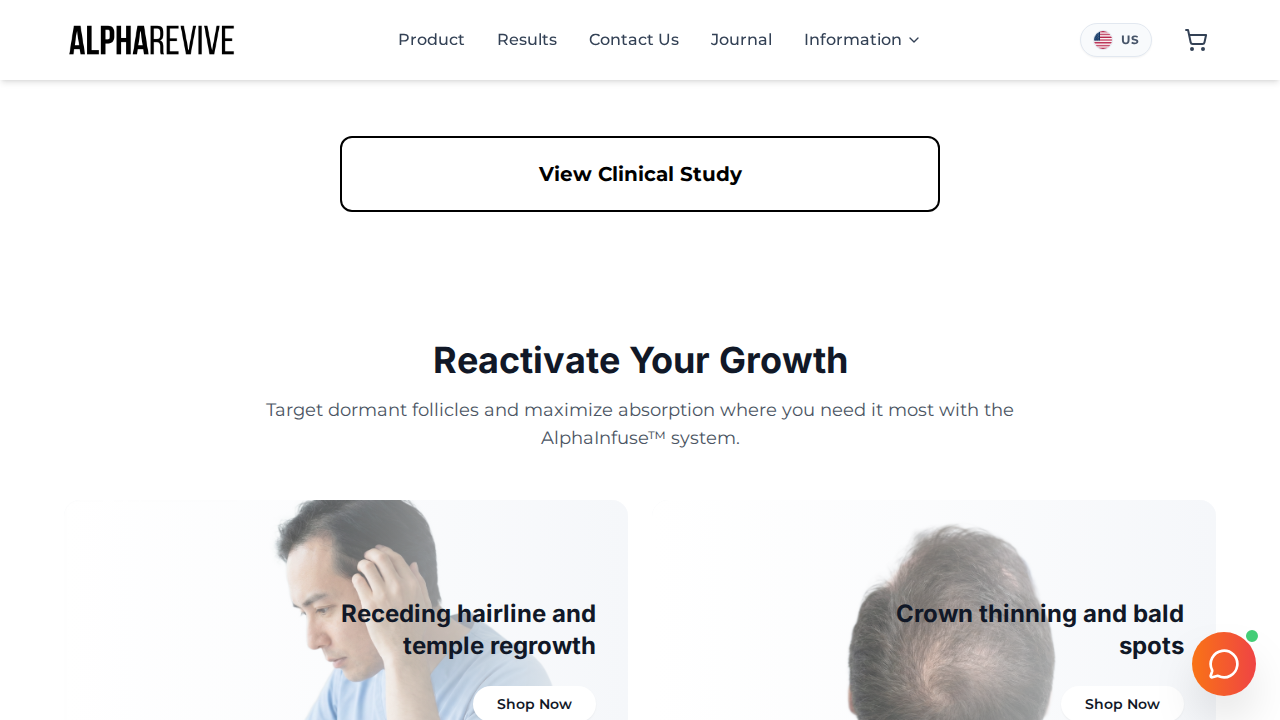
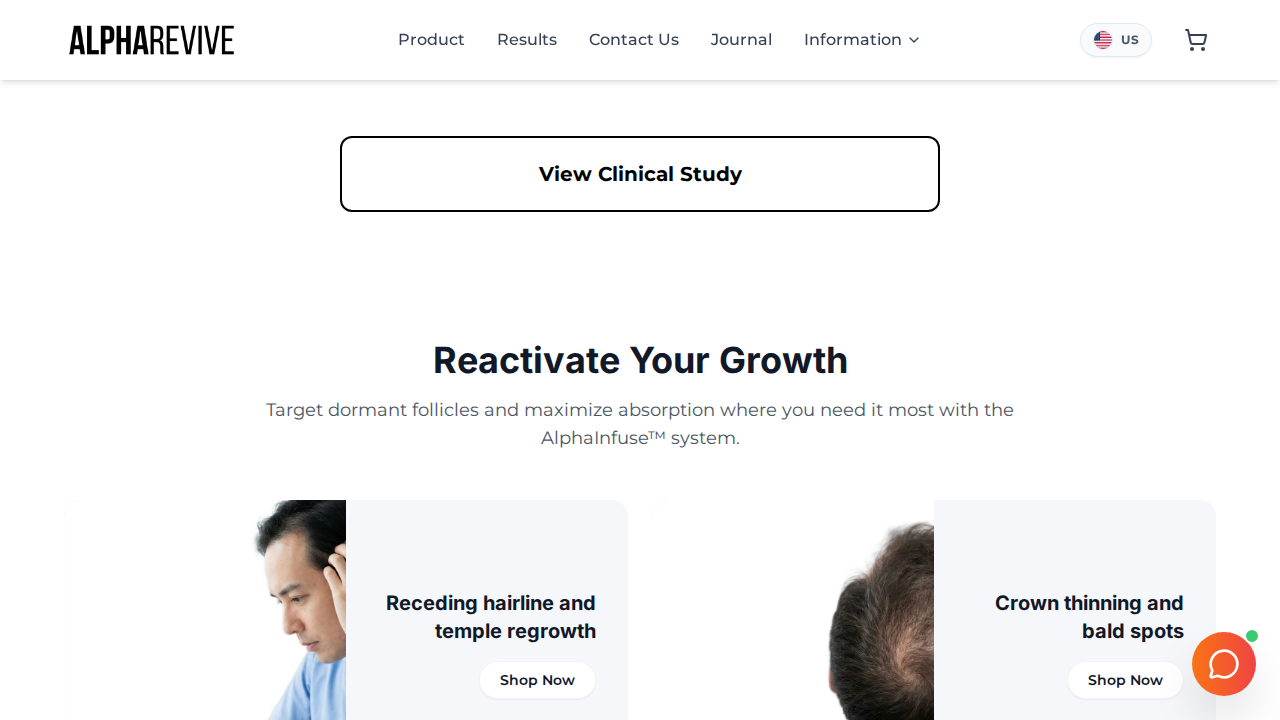
feat: Add Shop by Concern section
- Create `ShopByConcern.jsx` component with a responsive 2x2 grid layout.
- Implement split-card design: image on the left (50%), text/content on the right (50%).
- Add "Reactivate Your Growth" header and descriptive subtext.
- Integrate the section into `LandingPage.jsx` between the clinical study CTA and social proof.
- Add necessary image assets to `public/assets/`.
- Ensure mobile responsiveness (stacks vertically) and consistent styling (bg-[#F5F7FA], pill buttons).

Changed region(s): [[0.625, 0.7028, 0.9375, 1.0], [0.1875, 0.6722, 0.4688, 1.0]]

diff --git a/src/components/ShopByConcern.jsx b/src/components/ShopByConcern.jsx
@@ -48,29 +48,26 @@ export default function ShopByConcern() {
             <Link
               key={item.id}
               to={item.link}
-              className="group relative overflow-hidden rounded-2xl bg-[#F5F7FA] block h-64 md:h-80 transition-shadow hover:shadow-lg no-underline"
+              className="group rounded-2xl bg-[#F5F7FA] flex h-56 md:h-72 transition-shadow hover:shadow-lg no-underline overflow-hidden"
             >
-                {/* Image Background */}
-                <div className="absolute inset-0">
+                {/* Image Section - Left Side */}
+                <div className="w-1/2 relative overflow-hidden bg-gray-200">
                     <img
                         src={item.image}
                         alt={item.title}
-                        className="w-full h-full object-cover object-left opacity-100 transition-transform duration-500 group-hover:scale-105"
+                        className="w-full h-full object-cover object-left transition-transform duration-500 group-hover:scale-105"
                         onError={(e) => {
                             e.target.style.display = 'none';
-                            e.target.parentElement.style.backgroundColor = '#F5F7FA';
                         }}
                     />
-                    {/* Gradient Overlay for Text Readability - lighter on right/bottom */}
-                    <div className="absolute inset-0 bg-gradient-to-r from-transparent via-[rgba(245,247,250,0.4)] to-[#F5F7FA]"></div>
                 </div>
 
-                {/* Content */}
-                <div className="absolute inset-0 flex flex-col justify-center items-end p-8 text-right z-10">
-                    <h3 className="text-xl md:text-2xl font-bold text-gray-900 mb-6 max-w-[60%] leading-tight">
+                {/* Content Section - Right Side */}
+                <div className="w-1/2 flex flex-col justify-center items-end p-5 md:p-8 text-right">
+                    <h3 className="text-lg md:text-xl font-bold text-gray-900 mb-4 leading-tight">
                         {item.title}
                     </h3>
-                    <div className="bg-white text-gray-900 px-6 py-2 rounded-full font-semibold text-sm shadow-sm transition-transform group-hover:-translate-y-1">
+                    <div className="bg-white text-gray-900 px-5 py-2 rounded-full font-semibold text-sm shadow-sm border border-gray-100 transition-transform group-hover:-translate-y-1 whitespace-nowrap">
                         Shop Now
                     </div>
                 </div>
